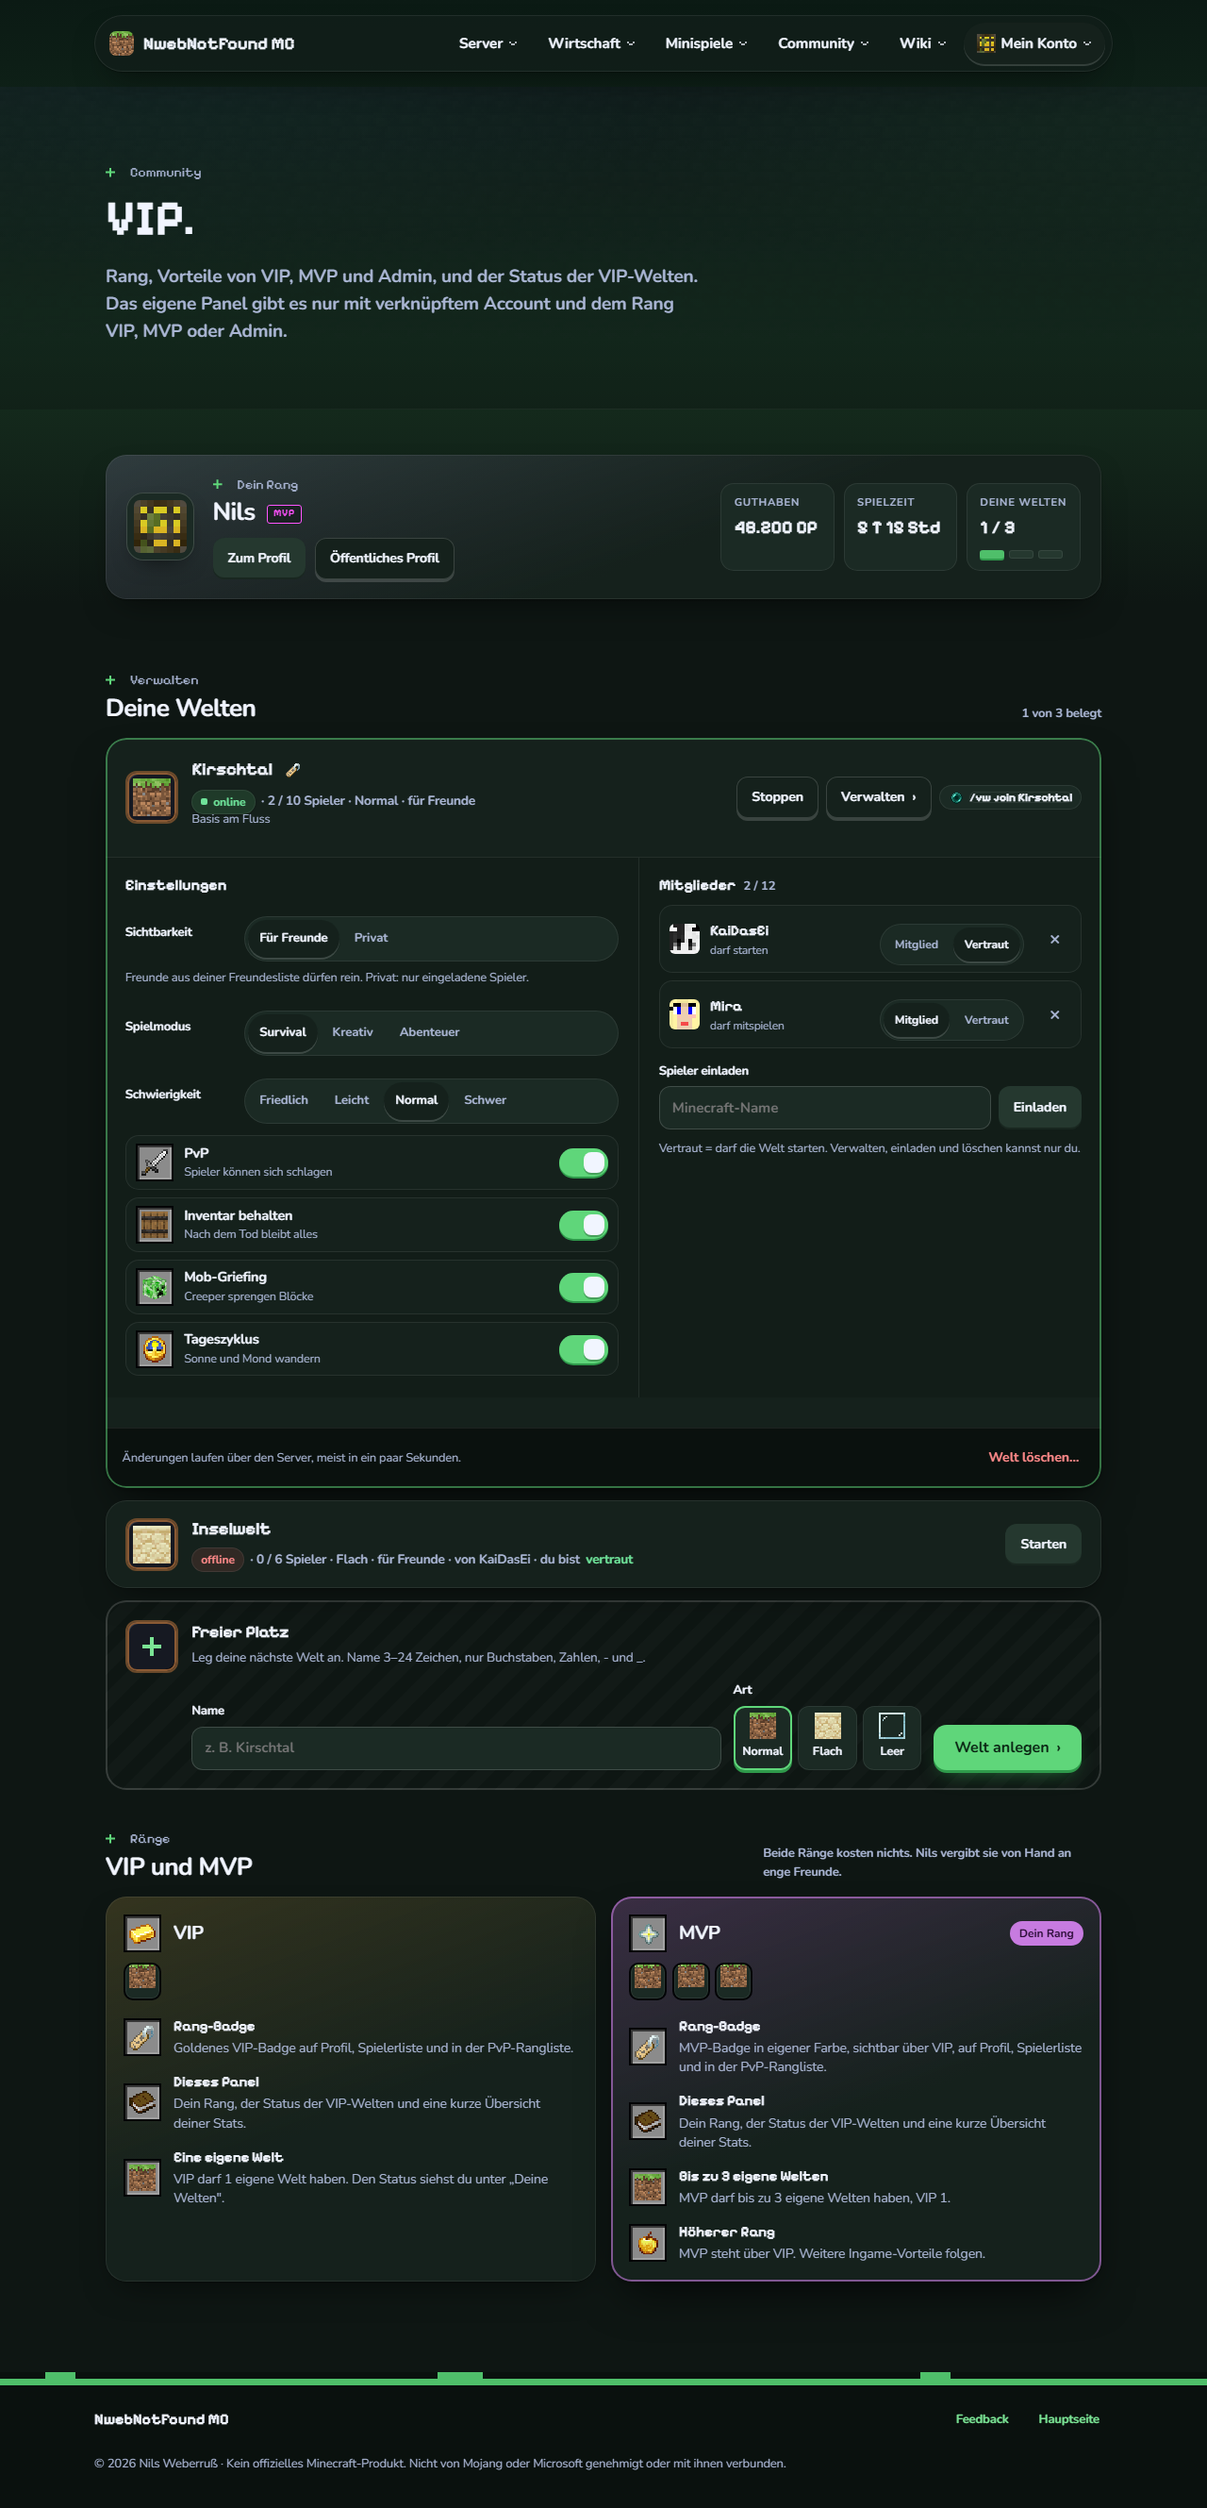
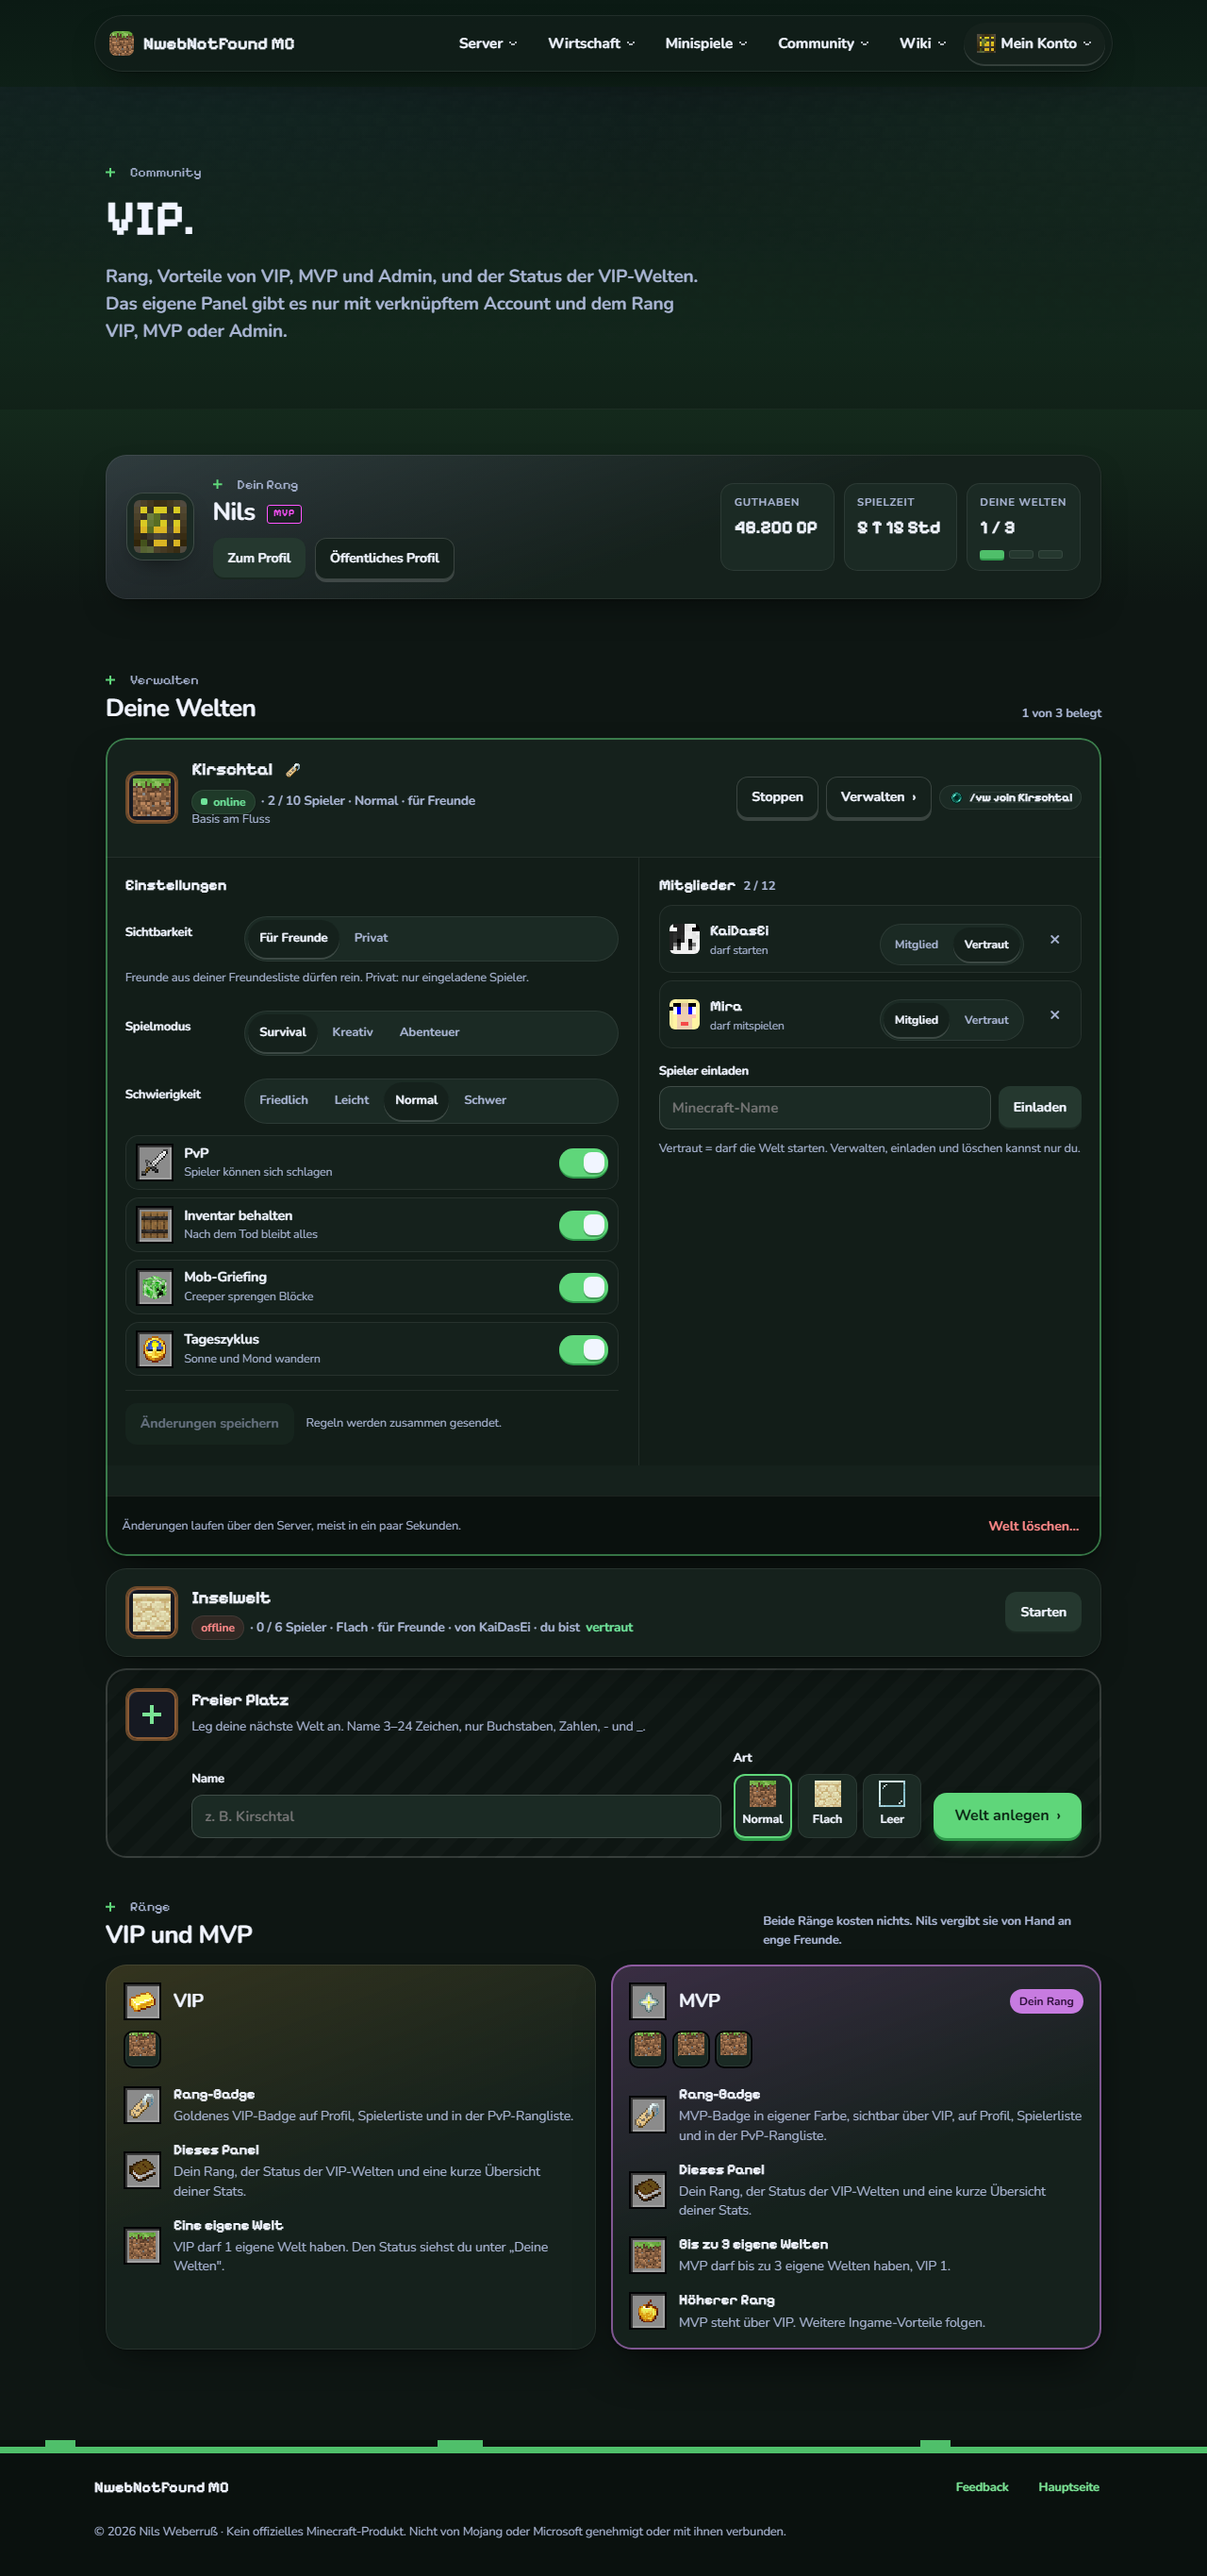
fix(mc): VIP v2 round 1 – one save for world rules, pending create guard, lenient sync settings
- Regeln einer Welt sammeln sich lokal und gehen als ein settings-Auftrag raus;
  settings hat einen eigenen Eimer (30/h je Nutzer, 60/h je IP) statt 10/20.
- create zaehlt laufende create-Auftraege fuer Platz und Namen mit (409 statt Doppelwelt).
- Sync verwirft unbekannte Regel-Schluessel still, statt die Welt zu verstecken.
- e2e: 11 Regel-Aenderungen in einer Sitzung, doppeltes create, Sync mit Extra-Key;
  Screenshot-Harness wartet auf den gerenderten Kopf.

diff --git a/src/mc-vip-cmd.js b/src/mc-vip-cmd.js
@@ -15,6 +15,19 @@ const SETTINGS = {
   pvp: "bool", keepInventory: "bool", mobGriefing: "bool", doDaylightCycle: "bool",
 };
 export const DEFAULT_SETTINGS = { gamemode: "survival", difficulty: "normal", pvp: false, keepInventory: false, mobGriefing: true, doDaylightCycle: true };
+// Sync: unbekannte Schlüssel und falsche Werte fallen still weg, die Welt bleibt gelistet. Strenge
+// Ablehnung gilt nur für Browser-Eingaben (cleanSettings), nicht für den Plugin-Abgleich: ein
+// siebter Regel-Schlüssel im Plugin darf nicht alle Welten aus dem Panel werfen.
+function syncSettings(raw) {
+  if (raw == null || typeof raw !== "object" || Array.isArray(raw)) return null;
+  const out = {};
+  for (const [k, v] of Object.entries(raw)) {
+    if (!(k in SETTINGS)) continue;
+    if (SETTINGS[k] === "bool" ? typeof v !== "boolean" : !SETTINGS[k].includes(v)) continue;
+    out[k] = v;
+  }
+  return out;
+}
 // Teil-Update: fehlende Schlüssel bleiben gespeichert. Unbekannte Schlüssel und falsche Typen sind ein Fehler.
 export function cleanSettings(raw) {
   if (!raw || typeof raw !== "object" || Array.isArray(raw)) return { error: "settings muss ein Objekt sein" };
@@ -101,8 +114,7 @@ export function cleanWorlds(raw) {
     const invites = cleanInvites(w?.invites);
     if (invites == null) continue;
     // settings ist im Sync optional. Fehlt der Block, gelten die Vertrags-Defaults im Panel.
-    const settings = w?.settings == null ? null : cleanSettings(w.settings);
-    if (settings && settings.error) continue;
+    const settings = syncSettings(w?.settings);
     seen.add(id);
     const limit = num(w?.player_limit);
     const slot = typeof w?.slot === "string" && /^[A-Za-z0-9_-]{1,32}$/.test(w.slot) ? w.slot : null;
@@ -121,7 +133,7 @@ export function cleanWorlds(raw) {
       info: sanitizeInfo(w?.info),
       invites: invites.filter((i) => !(i.name && ownerName && i.name.toLowerCase() === ownerName.toLowerCase()) && i.uuid !== owner),
       addons,
-      settings: settings ? settings.settings : null,
+      settings,
       created_at: ms(w?.created_at),
       last_started_at: ms(w?.last_started_at),
     });
@@ -238,6 +250,14 @@ export function makeVip({ json, getUser, safeEq, MAIN, MCD }) {
       const mine = (list || []).filter((w) => w.owner_uuid === a.uuid).length;
       if (mine >= worldLimit(a.rank)) return json({ error: "Kein freier Weltplatz", reason: "no_free_slot" }, 409);
       if ((list || []).some((w) => String(w.name || "").toLowerCase() === name.toLowerCase())) return json({ error: "Name schon vergeben", reason: "name_taken" }, 409);
+      // Die Syncliste hinkt dem Server nach: laufende create-Aufträge zählen für Platz und Namen mit,
+      // sonst legen zwei Klicks (oder zwei Tabs) zwei Welten an bzw. denselben Namen doppelt.
+      const [pMine, pName] = await Promise.all([
+        env.DB.prepare("SELECT COUNT(*) AS n FROM mc_vip_commands WHERE action = 'create' AND status = 'pending' AND discord_id = ?").bind(a.user.id).first(),
+        env.DB.prepare("SELECT 1 AS n FROM mc_vip_commands WHERE action = 'create' AND status = 'pending' AND lower(name) = lower(?) LIMIT 1").bind(name).first(),
+      ]);
+      if (pName) return json({ error: "Name schon vergeben", reason: "name_taken" }, 409);
+      if (mine + (pMine?.n || 0) >= worldLimit(a.rank)) return json({ error: "Kein freier Weltplatz", reason: "no_free_slot" }, 409);
     }
     if (action === "rename" && (list || []).some((w) => w.id !== id && String(w.name || "").toLowerCase() === name.toLowerCase())) return json({ error: "Name schon vergeben", reason: "name_taken" }, 409);
     if (action === "invite" || action === "uninvite" || action === "trust") {
@@ -274,10 +294,20 @@ export function makeVip({ json, getUser, safeEq, MAIN, MCD }) {
         const t = Math.min(perW?.n >= 3 ? perW.t : Infinity, perD?.n >= 6 ? perD.t : Infinity);
         return json({ error: "Zu viele Aktionen", retry_after_ms: Math.max(1, t + HOUR - now) }, 429);
       }
+    } else if (action === "settings") {
+      // Ein Speichern schickt bis zu sechs Regeln; ein Welt-Setup darf nicht am 10er-Eimer scheitern.
+      const [perD, perI] = await Promise.all([
+        env.DB.prepare("SELECT COUNT(*) AS n, MIN(created_at) AS t FROM mc_vip_commands WHERE discord_id = ? AND action = 'settings' AND created_at > ?").bind(a.user.id, since).first(),
+        env.DB.prepare("SELECT COUNT(*) AS n, MIN(created_at) AS t FROM mc_vip_commands WHERE (ip_hash = ?1 OR ip = ?2) AND action = 'settings' AND created_at > ?3").bind(ipHash, ip, since).first(),
+      ]);
+      if ((perD?.n || 0) >= 30 || (perI?.n || 0) >= 60) {
+        const t = Math.min(perD?.n >= 30 ? perD.t : Infinity, perI?.n >= 60 ? perI.t : Infinity);
+        return json({ error: "Zu viele Aktionen", retry_after_ms: Math.max(1, t + HOUR - now) }, 429);
+      }
     } else {
       const [perD, perI] = await Promise.all([
-        env.DB.prepare("SELECT COUNT(*) AS n, MIN(created_at) AS t FROM mc_vip_commands WHERE discord_id = ? AND action != 'start' AND created_at > ?").bind(a.user.id, since).first(),
-        env.DB.prepare("SELECT COUNT(*) AS n, MIN(created_at) AS t FROM mc_vip_commands WHERE (ip_hash = ?1 OR ip = ?2) AND action != 'start' AND created_at > ?3").bind(ipHash, ip, since).first(),
+        env.DB.prepare("SELECT COUNT(*) AS n, MIN(created_at) AS t FROM mc_vip_commands WHERE discord_id = ? AND action != 'start' AND action != 'settings' AND created_at > ?").bind(a.user.id, since).first(),
+        env.DB.prepare("SELECT COUNT(*) AS n, MIN(created_at) AS t FROM mc_vip_commands WHERE (ip_hash = ?1 OR ip = ?2) AND action != 'start' AND action != 'settings' AND created_at > ?3").bind(ipHash, ip, since).first(),
       ]);
       if ((perD?.n || 0) >= 10 || (perI?.n || 0) >= 20) {
         const t = Math.min(perD?.n >= 10 ? perD.t : Infinity, perI?.n >= 20 ? perI.t : Infinity);

diff --git a/public/mc/vip.js b/public/mc/vip.js
@@ -74,7 +74,7 @@
     return `<section class="v2-pane" aria-label="Einstellungen"><h3 class="v2-h3">Einstellungen</h3>${seg("Sichtbarkeit", "visibility", vis, [["friends", "Für Freunde"], ["private", "Privat"]])}<p class="mut v2-hint">Freunde aus deiner Freundesliste dürfen rein. Privat: nur eingeladene Spieler.</p>${seg("Spielmodus", "gamemode", st.gamemode, GM)}${seg("Schwierigkeit", "difficulty", st.difficulty, DIFF)}<ul class="v2-toggles">${TOGGLES.map(([k, icon, title, text]) => {
       const on = st[k] === true;
       return `<li>${slot(icon)}<span><b>${E(title)}</b><span class="mut">${E(text)}</span></span><button class="v2-tgl" type="button" role="switch" data-set="${k}" data-val="${on ? "false" : "true"}" aria-checked="${on}" aria-label="${E(title)}"></button></li>`;
-    }).join("")}</ul></section>`;
+    }).join("")}</ul><div class="v2-save"><button class="btn sm" type="button" data-save="${E(s.id)}" disabled>Änderungen speichern</button><span class="mut v2-hint">Regeln werden zusammen gesendet.</span></div></section>`;
   };
   const membersPane = (s) => {
     const list = (Array.isArray(s.members) ? s.members : []).filter((m) => NAME.test(m && m.name || ""));
@@ -191,6 +191,16 @@
     }
     return `<div class="vip-gate g v2-gate">${slot("player_head", true)}${msg}</div><h2 class="hub-h2">Vorteile</h2>${cards(d.catalog, d.limits)}${note(d.note)}`;
   };
+  // Ein Speichern statt sechs Aufträge: die Regeln einer Welt sammeln sich hier und gehen als
+  // ein Teil-Update raus (der 10-pro-Stunde-Eimer gilt für alles andere).
+  const dirty = new Map();
+  const markDirty = (id, key, val) => {
+    const d = { ...(dirty.get(id) || {}), [key]: val };
+    dirty.set(id, d);
+    const card = document.querySelector('.v2-world[data-wid="' + id + '"]');
+    const btn = card && card.querySelector("button[data-save]");
+    if (btn) { btn.disabled = false; btn.textContent = `Änderungen speichern (${Object.keys(d).length})`; }
+  };
   const rid = () => {
     try { if (window.crypto && crypto.randomUUID) return crypto.randomUUID(); } catch { /* Fallback unten */ }
     return "r" + Date.now().toString(36) + Math.random().toString(36).slice(2, 10);
@@ -260,6 +270,16 @@
       box.querySelectorAll('button[role="radio"]').forEach((b) => b.setAttribute("aria-checked", b === btn ? "true" : "false"));
       return;
     }
+    const save = btn.getAttribute("data-save");
+    if (save) {
+      const d = dirty.get(save);
+      if (!UUID.test(save) || !d || !Object.keys(d).length) return;
+      btn.disabled = true;
+      const outgoing = { ...d };
+      dirty.delete(save);
+      await run("/api/mc-vip/worlds/" + encodeURIComponent(save) + "/settings", { request_id: rid(), settings: outgoing }, "POST", "Einstellungen gespeichert. Der Server übernimmt sie gleich.");
+      return;
+    }
     const set = btn.getAttribute("data-set");
     if (set) {
       const card = btn.closest(".v2-world");
@@ -269,11 +289,18 @@
         const vis = btn.getAttribute("data-val") === "private" ? "private" : "friends";
         btn.disabled = true;
         await run("/api/mc-vip/worlds/" + encodeURIComponent(id) + "/visibility", { request_id: rid(), visibility: vis }, "POST", "Sichtbarkeit geändert. Die Welt übernimmt es beim nächsten Abgleich.");
+        return;
+      }
+      // Regel lokal umschalten und merken; gesendet wird erst mit "Änderungen speichern".
+      if (btn.classList.contains("v2-tgl")) {
+        const on = btn.getAttribute("aria-checked") === "true";
+        btn.setAttribute("aria-checked", on ? "false" : "true");
+        btn.setAttribute("data-val", on ? "false" : "true");
+        markDirty(id, set, !on);
       } else {
-        const val = btn.getAttribute("data-val");
-        const v = val === "true" ? true : val === "false" ? false : val;
-        btn.disabled = true;
-        await run("/api/mc-vip/worlds/" + encodeURIComponent(id) + "/settings", { request_id: rid(), settings: { [set]: v } }, "POST", "Einstellung gespeichert. Der Server übernimmt sie gleich.");
+        const group = btn.closest(".seg");
+        if (group) group.querySelectorAll("button").forEach((b) => b.setAttribute("aria-pressed", b === btn ? "true" : "false"));
+        markDirty(id, set, btn.getAttribute("data-val"));
       }
       return;
     }

diff --git a/public/mc/vip.css b/public/mc/vip.css
@@ -122,6 +122,9 @@ html.mc .v2-tgl{flex:none;width:52px;height:30px;border:0;border-radius:999px;ba
 html.mc .v2-tgl::after{content:"";position:absolute;top:4px;left:4px;width:22px;height:22px;border-radius:8px;background:var(--ink);box-shadow:0 2px 0 rgba(0,0,0,.25);transition:transform .28s cubic-bezier(.34,1.56,.64,1)}
 html.mc .v2-tgl[aria-checked="true"]{background:var(--act);box-shadow:0 2px 0 var(--act-edge)}
 html.mc .v2-tgl[aria-checked="true"]::after{transform:translateX(22px)}
+html.mc .v2-save{display:flex;flex-wrap:wrap;align-items:center;gap:.5rem .8rem;margin-top:.9rem;padding-top:.8rem;border-top:1px solid var(--line)}
+html.mc .v2-save .v2-hint{margin:0}
+html.mc .v2-save .btn[disabled]{opacity:.55;cursor:not-allowed}
 html.mc .v2-members{list-style:none;margin:0 0 .9rem;padding:0;display:grid;gap:.5rem}
 html.mc .v2-members li{display:grid;grid-template-columns:32px minmax(0,1fr) auto;gap:.4rem .7rem;align-items:center;padding:.5rem .4rem .5rem .7rem;border-radius:var(--r-md);background:var(--surface);box-shadow:var(--bevel)}
 html.mc .v2-members .v2-role{grid-column:1/3;grid-row:2;justify-self:start}
